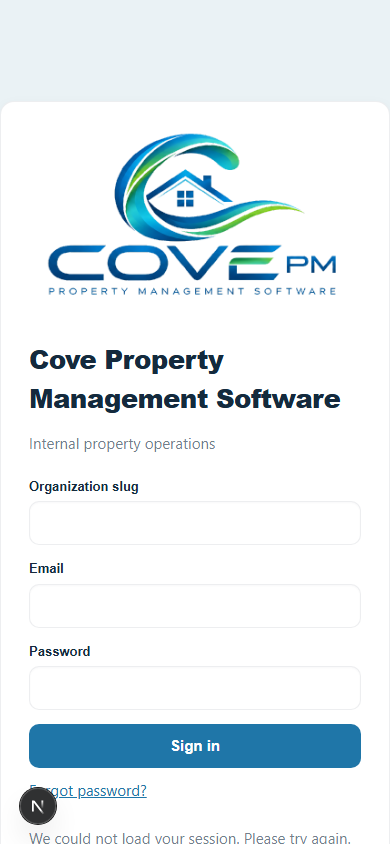
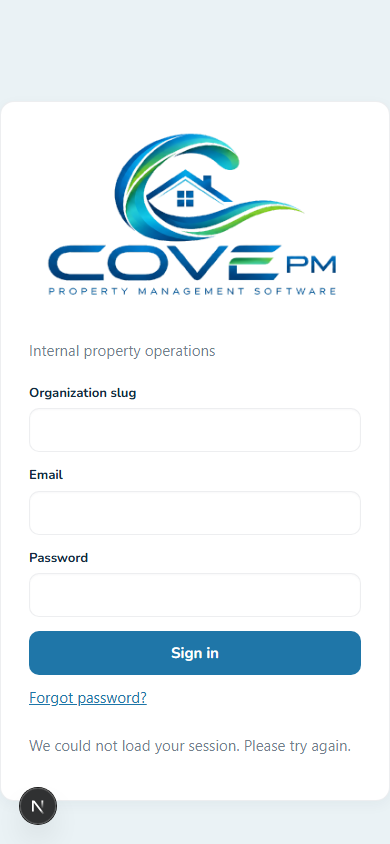
docs(web): add Cove UI screenshot report

diff --git a/outputs/front-of-house-ui-report.html b/outputs/front-of-house-ui-report.html
@@ -1,0 +1,15 @@
+<!doctype html>
+<html lang="en">
+<head>
+  <meta charset="utf-8"><meta name="viewport" content="width=device-width,initial-scale=1">
+  <title>Cove Property Management Software — Front-of-house UI</title>
+  <style>body{font:16px system-ui,sans-serif;max-width:1100px;margin:40px auto;padding:0 20px;color:#173b5a;background:#f7fbfc}img{max-width:100%;border-radius:12px;box-shadow:0 8px 28px #173b5a22}h1{color:#075b9c}section{margin:30px 0}small{color:#537080}</style>
+</head>
+<body>
+  <header><img src="../apps/web/public/brand/cove-logo-light.png" alt="Cove Property Management Software" style="width:260px;box-shadow:none"><h1>Front-of-house UI implementation</h1><p>Updated shell, dashboard entry, responsive navigation, and day/night theme foundations informed by the competitive research brief.</p></header>
+  <section><h2>Updated-state screenshots</h2><p><a href="../apps/web/outputs/ui-screenshots/cove-login-desktop.png">Desktop login screenshot</a> — approved Cove logo, product title, Cove palette, and accessible sign-in surface.</p><img src="../apps/web/outputs/ui-screenshots/cove-login-desktop.png" alt="Cove Property Management Software desktop sign-in screen"></section>
+  <section><p><a href="../apps/web/outputs/ui-screenshots/cove-login-mobile.png">Mobile login screenshot</a> — narrow viewport behavior and preserved logo legibility.</p><img src="../apps/web/outputs/ui-screenshots/cove-login-mobile.png" alt="Cove Property Management Software mobile sign-in screen"></section>
+  <section><p><a href="../apps/web/outputs/ui-screenshots/cove-login-night.png">Night-mode screenshot</a> — dark preference emulation, readable text/controls, and the approved light-surface logo treatment.</p><img src="../apps/web/outputs/ui-screenshots/cove-login-night.png" alt="Cove Property Management Software night-mode sign-in screen"></section>
+  <section><h2>Feature icon usage</h2><p>Dashboard quick actions use individual solid-fill feature marks in the Cove icon language: ocean blue primary shapes with restrained green accents.</p><div style="display:flex;gap:24px;flex-wrap:wrap;color:#0879bd;font-weight:700"><span>⌂ Property management</span><span>▤ Lease tracking</span><span>▥ Reporting &amp; analytics</span><span>♙ Tenant portal</span></div></section>
+  <section><h2>Implementation notes</h2><ul><li>Navigation is grouped by Workspace, People &amp; updates, and Admin.</li><li>Home leads with “Today at a glance” and direct portfolio/leasing actions.</li><li>Day/night tokens are centralized on <code>data-theme</code>; the shell toggle persists <code>cove-theme</code> and honors system preference on first visit.</li><li>Logo/wordmark and feature icons are isolated crops from the style guide; the poster image is not used.</li><li>Primary logo is used on light surfaces; the lightened teal variant is used in the navy shell. Averion is reserved for company-level attribution.</li></ul><p><small>Authenticated dashboard capture is pending a running API/session; the local web runtime was verified without hydration errors on the captured sign-in routes.</small></p></section>
+</body></html>
